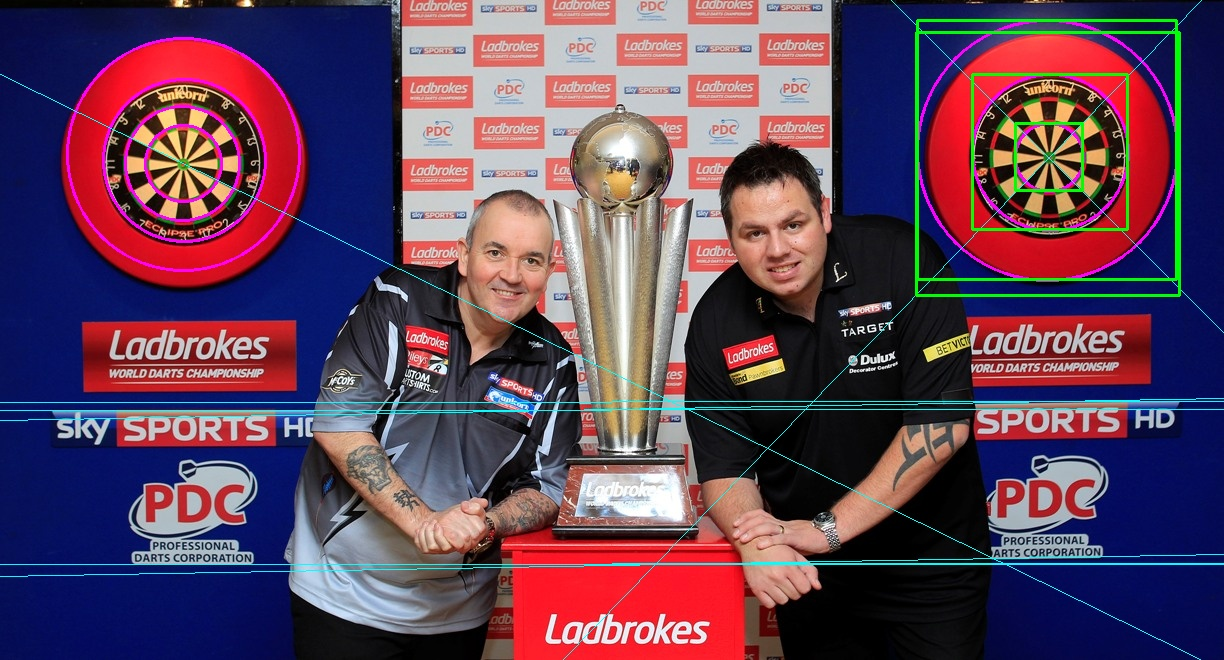
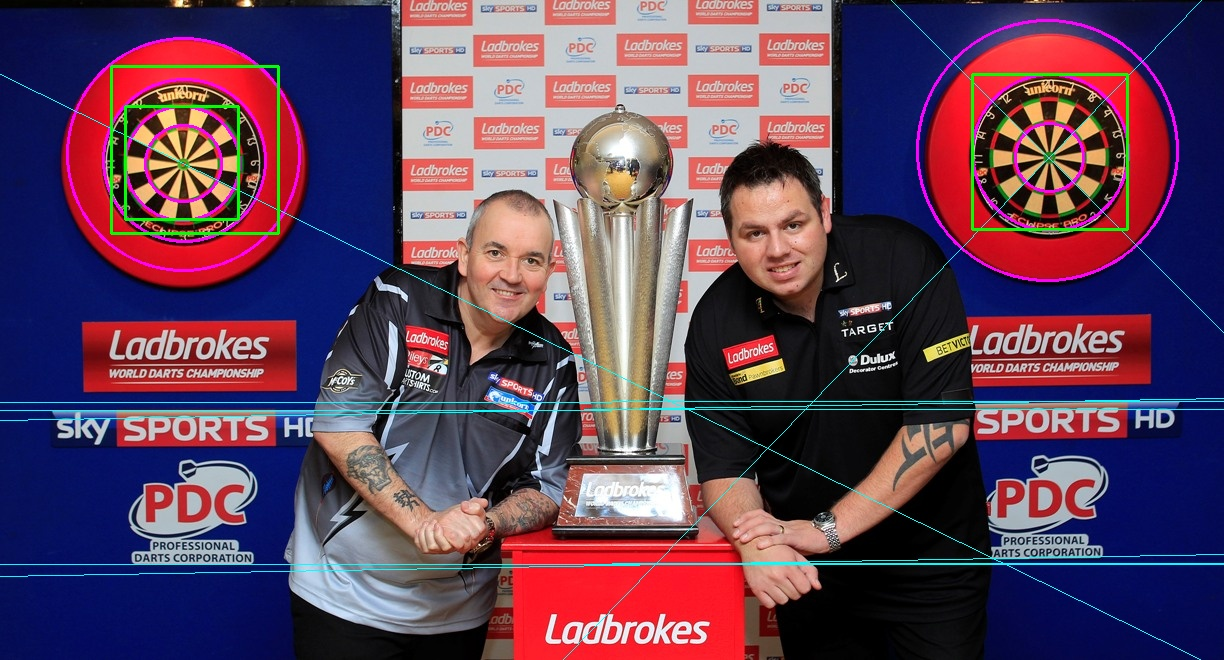
concentric circles now works properly and added some sort of filtering based on similarities of rectangles

Changed region(s): [[0.7451, 0.0, 0.9935, 0.4545], [0.0621, 0.0909, 0.2484, 0.3636], [0.8072, 0.1818, 0.9003, 0.303]]

diff --git a/csv2.cpp b/csv2.cpp
@@ -161,10 +161,11 @@ double percentage_overlap(Rect truth, Rect detected) {
     return overlap;
 }
 
-double inner_rect_overlap(Rect outer, Rect inner) {
-    Rect intersect = outer & inner;
-
-    double overlap = ((double)intersect.area())/(double)(outer.area());
+double one_way_overlap(Rect bigger, Rect smaller) {
+    Rect intersect = bigger & smaller;
+    double intersect_area = intersect.area();
+    double smaller_area = smaller.area();
+    double overlap = intersect_area/smaller_area;
     return overlap;
 }
 
@@ -271,40 +272,58 @@ double distance_to_line( Point begin, Point end, Point x ){
    return abs(area / norm(end));
 }
 
-vector<Rect> update_detections(vector<Rect> detected_rects, vector<Circle> circles, vector<Line> lines) {
-    vector<Rect> noDuplicateRects;
-    for (int i = 0; i < detected_rects.size(); i++) {
-        bool noIdenticals = true;
-        Rect r1 = detected_rects.at(i);
-        for (int j = 0; j < noDuplicateRects.size() && !noIdenticals; j++) {
-            Rect r2 = noDuplicateRects.at(j);
-            if(r1 == r2) noIdenticals = false;
+vector<Rect> remove_duplicate_rects(vector<Rect> rects) {
+    cout << "input amount of rects: " << rects.size() << "\n";
+    vector<Rect> no_duplicates;
+    for (int i = 0; i < rects.size(); i++) {
+        bool no_identicals = true;
+        Rect r1 = rects.at(i);
+        for (int j = 0; j < no_duplicates.size() && !no_identicals; j++) {
+            Rect r2 = no_duplicates.at(j);
+            if (r1 == r2) no_identicals = false;
         }
-        noDuplicateRects.push_back(r1);
+        no_duplicates.push_back(r1);
     }
-    detected_rects = noDuplicateRects;
+    cout << "output amount of rects: " << no_duplicates.size() << "\n";
+    return no_duplicates;
+}
 
+vector<Rect> update_detections(vector<Rect> detected_rects, vector<Circle> circles, vector<Line> lines) {
 
+    detected_rects = remove_duplicate_rects(detected_rects);
 
     vector<int> circle_votes, line_votes, line_votes2;
-    
+    int inner_circle_of[circles.size()];
+    for (int c = 0; c < circles.size(); c++) inner_circle_of[c] = -1;
+
     for (int c0 = 0; c0 < circles.size(); c0++) {
         for (int c1 = 0; c1 < circles.size(); c1++) {
-            if (circles.at(c0).isOuterCircleOf(circles.at(c1)))  {
-                detected_rects.push_back(circles.at(c0).makeRect());
+            if (c0 != c1 && circles.at(c0).isInnerCircleOf(circles.at(c1))) {
+                inner_circle_of[c1] = c0;
             }
         }
     }
 
-    
+    for (int c = 0; c < circles.size(); c++) cout << "inner circle of " << c << " is " << inner_circle_of[c] << "\n";
 
-    vector<Rect> final_detections;
+    for (int c0 = 0; c0 < circles.size(); c0++) {
+        for (int c1 = 0; c1 < circles.size(); c1++) {
+            if (c0 != c1 && inner_circle_of[c1] == c0 && inner_circle_of[c0] == -1) {
+                cout << "adding outer circle: " << c1 << "\n";
+                detected_rects.push_back(circles.at(c1).makeRect());
+            }
+        }
+    }
+
     //Voting for rectangles that have an outer or inner circle
     for (int i = 0; i < detected_rects.size(); i++) {
         int vote = 0;
         for (int c = 0; c < circles.size(); c++) {
-            if (circles.at(c).isSimilarTo(detected_rects.at(i)))  {
+            if (circles.at(c).isSimilarTo(detected_rects.at(i))) {
                     vote++;
+                    if (inner_circle_of[c] != -1 && inner_circle_of[inner_circle_of[c]] == -1) {
+                        vote++;
+                    }
             }
         }
         circle_votes.push_back(vote);
@@ -315,7 +334,7 @@ vector<Rect> update_detections(vector<Rect> detected_rects, vector<Circle> circl
         vector<Line> linesNearCenter;
         Rect r = detected_rects.at(i);
         for (int l = 0; l < lines.size(); l++) {
-            if(distance_to_line(Point(r.x, lines.at(l).getY(r.x)), 
+            if(distance_to_line(Point(r.x, lines.at(l).getY(r.x)),
                                 Point(r.x+r.width, lines.at(l).getY(r.x+r.width)),
                                 Point(r.x+r.width/2, r.y+r.height/2)) < 10)
                 linesNearCenter.push_back(lines.at(l));
@@ -353,6 +372,8 @@ vector<Rect> update_detections(vector<Rect> detected_rects, vector<Circle> circl
     //     line_votes.push_back(vote);
     // }
 
+    vector<Rect> final_detections;
+
     //Vote counting
     for (int i = 0; i < detected_rects.size(); i++) {
         printf("Rectangle votes\n Circle %d\n Lines2 %d\n", circle_votes.at(i), line_votes2.at(i));
@@ -362,15 +383,15 @@ vector<Rect> update_detections(vector<Rect> detected_rects, vector<Circle> circl
     }
 
 
-    // for(int r1 = 0; r1 < final_detections.size(); r1++)  {
-    //     for(int r2 = 0; r2 < final_detections.size(); r2++)  {
-    //         if (final_detections.at(r1).area() > final_detections.at(r2).area()) {
-    //             double overlap = inner_rect_overlap(final_detections.at(r1), final_detections.at(r2));
-    //             printf("%f\n", overlap);
-    //             if(overlap > 0)  final_detections.erase(final_detections.begin() + r2);
-    //         }
-    //     }
-    // }
+    for(int r1 = 0; r1 < final_detections.size(); r1++)  {
+        for(int r2 = 0; r2 < final_detections.size(); r2++)  {
+            if (final_detections.at(r1).area() > final_detections.at(r2).area()) {
+                double overlap = one_way_overlap(final_detections.at(r1), final_detections.at(r2));
+                printf("%f\n", overlap);
+                if(overlap > 0.8)  final_detections.erase(final_detections.begin() + r2);
+            }
+        }
+    }
 
     return final_detections;
 }

diff --git a/circle.cpp b/circle.cpp
@@ -40,9 +40,17 @@ class Circle {
 
     bool isOuterCircleOf(Circle c)  {
         int allowedError = percentage*radius;
-        if(abs(c.x- x) > allowedError)  return false;
+        if(abs(c.x - x) > allowedError)  return false;
         if(abs(c.y - y) > allowedError)  return false;
-        if(abs(0.63*radius - c.radius) > allowedError)  return false;
+        if(abs(0.63 * radius - c.radius) > allowedError)  return false;
+        return true;
+    }
+
+    bool isInnerCircleOf(Circle c)  {
+        int allowedError = percentage*radius;
+        if(abs(c.x - x) > allowedError)  return false;
+        if(abs(c.y - y) > allowedError)  return false;
+        if(abs(radius - 0.63 * c.radius) > (allowedError * 1.25))  return false;
         return true;
     }
 
